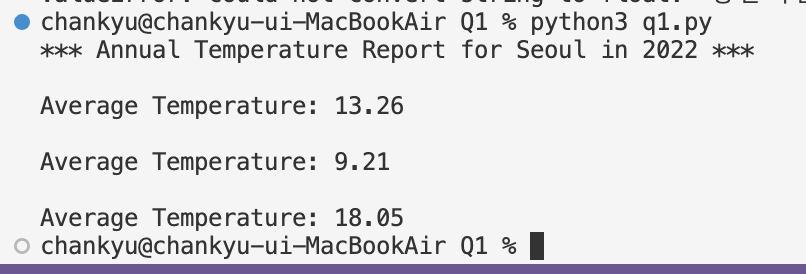
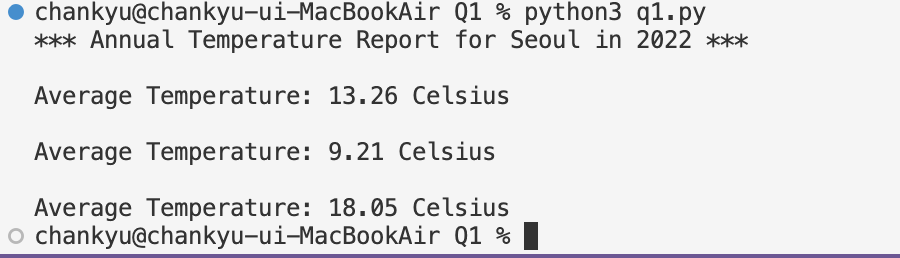
17:05

diff --git a/Q4/q4.py b/Q4/q4.py
@@ -25,34 +25,35 @@ def main():
 # row[1] 호선
 # row[4] 승차객수 
     for row in data:
+        num = int(row[4]) + int(row[5])
         if row[1]=="1호선":
-            if int(row[4]) > Mx1:
+            if num > Mx1:
                 Mx1L = row[3]
-                Mx1 = int(row[4])
-            if int(row[4]) < Mn1:
+                Mx1 = num
+            if num < Mn1:
                 Mn1L = row[3]
-                Mn1 = int(row[4])
+                Mn1 = num
         if row[1]=="2호선":
-            if int(row[4]) > Mx2:
+            if num > Mx2:
                 Mx2L = row[3]
-                Mx2 = int(row[4])
-            if int(row[4]) < Mn2:
+                Mx2 = num
+            if num < Mn2:
                 Mn2L = row[3]
-                Mn2 = int(row[4])
+                Mn2 = num
         if row[1]=="3호선":
-            if int(row[4]) > Mx3:
+            if num > Mx3:
                 Mx3L = row[3]
-                Mx3 = int(row[4])
-            if int(row[4]) < Mn3:
+                Mx3 = num
+            if num < Mn3:
                 Mn3L = row[3]
-                Mn3 = int(row[4])
+                Mn3 = num
         if row[1]=="4호선":
-            if int(row[4]) > Mx4:
+            if num > Mx4:
                 Mx4L = row[3]
-                Mx4 = int(row[4])
-            if int(row[4]) < Mn4:
+                Mx4 = num
+            if num < Mn4:
                 Mn4L = row[3]
-                Mn4 = int(row[4])
+                Mn4 = num
             
 
     print("*** Subway Report for Seoul on March 2023 ***")

diff --git a/Q1/q1.py b/Q1/q1.py
@@ -28,11 +28,11 @@ def main():
 
     print("*** Annual Temperature Report for Seoul in 2022 ***")
     print()
-    print("Average Temperature: {:.2f}".format(sumMean/i))
+    print("Average Temperature: {:.2f} Celsius".format(sumMean/i))
     print()
-    print("Average Temperature: {:.2f}".format(sumMn/i))
+    print("Average Temperature: {:.2f} Celsius".format(sumMn/i))
     print()
-    print("Average Temperature: {:.2f}".format(sumMx/i))
+    print("Average Temperature: {:.2f} Celsius".format(sumMx/i))
 
     f.close()
 

diff --git a/Q3/q3.py b/Q3/q3.py
@@ -11,9 +11,9 @@ def main():
 # row[4] 승차객수 
     for row in data:
         if row[1] in dic:
-            dic[row[1]] = dic[row[1]] + int(row[4])
+            dic[row[1]] = dic[row[1]] + int(row[4])+int(row[5])
         else:
-            dic[row[1]] = int(row[4])
+            dic[row[1]] = int(row[4]) + int(row[5])
 
     newList = sorted(dic.items(), key = lambda x: x[1])
 
